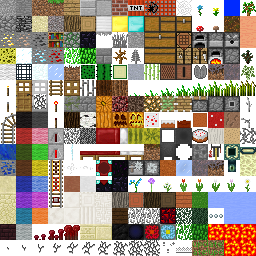
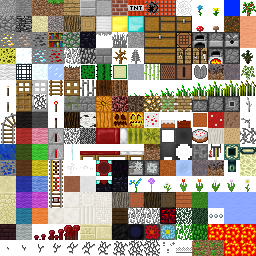
Biome colours for grass, tall grass and leaves [release]
- BiomeTint: each biome gets its PE 0.9.0 / Java 1.7 temperature and
  rainfall, looked up in the Java grass/foliage colormaps (from the
  resource pack) and box-blended over 7x7 columns. Cached per 16x16
  block with a private BiomeSource so world gen buffers aren't touched.
- Grass top, tall grass/ferns, oak and 0.9 leaves use it; spruce and
  birch keep their fixed Java colours; swamps get the murky swamp colour.
- Grass block sides: the green-baked side stays as the base (and as the
  item icon); the greyscale overlay (tile 38) is drawn tinted in the
  alpha-test layer as coplanar quads, with depth func LEQUAL like Java.
  Works with and without smooth lighting; snowy grass is skipped.
- Oak leaves in the atlas replaced with Java's greyscale ones (fancy and
  fast) so the tint isn't applied on top of baked green.
- LOD terrain picks the tint up automatically via getColor.

Claude-Session: https://claude.ai/code/session_01TSw6cBGJEbnr4uor3hK3ga

Changed region(s): [[0.25, 0.1875, 0.375, 0.25]]

diff --git a/src/world/level/BiomeTint.cpp b/src/world/level/BiomeTint.cpp
@@ -1,0 +1,135 @@
+#include "BiomeTint.h"
+#include "Level.h"
+#include "biome/BiomeSource.h"
+#include "biome/Biome.h"
+#include <map>
+#include <cstring>
+
+namespace {
+	int g_grassMap[256 * 256];
+	int g_foliageMap[256 * 256];
+	bool g_haveMaps = false;
+
+	struct ColumnBlock {
+		int grass[256];
+		int foliage[256];
+	};
+
+	BiomeSource* g_source = NULL;
+	long g_seed = 0;
+	std::map<long long, ColumnBlock*> g_cache;
+
+	std::map<long long, ColumnBlock*> g_raw;
+	void clearCache() {
+		for (std::map<long long, ColumnBlock*>::iterator it = g_cache.begin(); it != g_cache.end(); ++it)
+			delete it->second;
+		g_cache.clear();
+		for (std::map<long long, ColumnBlock*>::iterator it = g_raw.begin(); it != g_raw.end(); ++it)
+			delete it->second;
+		g_raw.clear();
+	}
+
+	// Java GrassColor/FoliageColor.get(temperature, rainfall)
+	inline int lookup(const int* map, float temp, float rain) {
+		rain *= temp;
+		int x = (int)((1.0f - temp) * 255.0f);
+		int y = (int)((1.0f - rain) * 255.0f);
+		if (x < 0) x = 0; if (x > 255) x = 255;
+		if (y < 0) y = 0; if (y > 255) y = 255;
+		return map[(y << 8) | x];
+	}
+
+	// Per-biome climate as in PE 0.9.0 / Java 1.7 (temperature, rainfall),
+	// clamped to 0..1 for the colormap lookup. Swamps use Java's fixed colour.
+	void biomeColors(Biome* b, int& grass, int& foliage) {
+		float t = 0.8f, r = 0.4f;                                   // plains
+		if (b == Biome::swampland) { grass = 0x6a7039; foliage = 0x6a7039; return; }
+		if (b == Biome::rainForest)                                 { t = 0.95f; r = 0.9f; }  // jungle
+		else if (b == Biome::forest || b == Biome::seasonalForest)  { t = 0.7f;  r = 0.8f; }
+		else if (b == Biome::taiga)                                 { t = 0.25f; r = 0.8f; }
+		else if (b == Biome::savanna || b == Biome::desert)         { t = 1.0f;  r = 0.0f; }
+		else if (b == Biome::iceDesert || b == Biome::tundra)       { t = 0.0f;  r = 0.5f; }
+		else if (b == Biome::shrubland)                             { t = 0.85f; r = 0.3f; }
+		grass   = lookup(g_grassMap, t, r);
+		foliage = lookup(g_foliageMap, t, r);
+	}
+
+
+	inline long long keyOf(int bx, int bz) { return ((long long)bx << 32) ^ (unsigned int)bz; }
+
+	const ColumnBlock* rawBlock(int bx, int bz) {
+		const long long key = keyOf(bx, bz);
+		std::map<long long, ColumnBlock*>::iterator it = g_raw.find(key);
+		if (it != g_raw.end()) return it->second;
+		ColumnBlock* b = new ColumnBlock();
+		Biome** biomes = g_source->getBiomeBlock(bx << 4, bz << 4, 16, 16);
+		for (int i = 0; i < 256; ++i) biomeColors(biomes[i], b->grass[i], b->foliage[i]);
+		g_raw[key] = b;
+		return b;
+	}
+
+	const int BLEND = 3; // 7x7 columns, like the smooth biome blend in 0.9.0
+
+	const ColumnBlock* block(int x, int z) {
+		const int bx = x >> 4, bz = z >> 4;
+		const long long key = keyOf(bx, bz);
+		std::map<long long, ColumnBlock*>::iterator it = g_cache.find(key);
+		if (it != g_cache.end()) return it->second;
+
+		// gather a 3x3 neighbourhood of raw blocks, box-blur the colours
+		const ColumnBlock* nb[3][3];
+		for (int i = 0; i < 3; ++i) for (int j = 0; j < 3; ++j) nb[i][j] = rawBlock(bx + i - 1, bz + j - 1);
+		ColumnBlock* b = new ColumnBlock();
+		for (int lx = 0; lx < 16; ++lx)
+		for (int lz = 0; lz < 16; ++lz) {
+			int gr = 0, gg = 0, gb = 0, fr = 0, fg = 0, fb = 0, n = 0;
+			for (int dx = -BLEND; dx <= BLEND; ++dx)
+			for (int dz = -BLEND; dz <= BLEND; ++dz) {
+				const int px = lx + dx + 16, pz = lz + dz + 16;      // 0..47
+				const ColumnBlock* c = nb[px >> 4][pz >> 4];
+				const int idx = ((px & 15) << 4) | (pz & 15);
+				const int g = c->grass[idx], f = c->foliage[idx];
+				gr += (g >> 16) & 255; gg += (g >> 8) & 255; gb += g & 255;
+				fr += (f >> 16) & 255; fg += (f >> 8) & 255; fb += f & 255;
+				++n;
+			}
+			const int idx = (lx << 4) | lz;
+			b->grass[idx]   = ((gr / n) << 16) | ((gg / n) << 8) | (gb / n);
+			b->foliage[idx] = ((fr / n) << 16) | ((fg / n) << 8) | (fb / n);
+		}
+		if (g_cache.size() > 8192) clearCache(); // far beyond any world we render
+		g_cache[key] = b;
+		return b;
+	}
+}
+
+void BiomeTint::setColormaps(const unsigned char* grass, const unsigned char* foliage) {
+	if (!grass || !foliage) return;
+	for (int i = 0; i < 256 * 256; ++i) {
+		g_grassMap[i]   = (grass[i * 4] << 16)   | (grass[i * 4 + 1] << 8)   | grass[i * 4 + 2];
+		g_foliageMap[i] = (foliage[i * 4] << 16) | (foliage[i * 4 + 1] << 8) | foliage[i * 4 + 2];
+	}
+	g_haveMaps = true;
+	clearCache();
+}
+
+void BiomeTint::setLevel(Level* level) {
+	if (level && g_source && g_seed == level->getSeed()) return;
+	clearCache();
+	delete g_source;
+	g_source = NULL;
+	if (level) {
+		g_seed = level->getSeed();
+		g_source = new BiomeSource(level);
+	}
+}
+
+int BiomeTint::grass(int x, int z) {
+	if (!g_haveMaps || !g_source) return DEFAULT_GRASS;
+	return block(x, z)->grass[((x & 15) << 4) | (z & 15)];
+}
+
+int BiomeTint::foliage(int x, int z) {
+	if (!g_haveMaps || !g_source) return DEFAULT_FOLIAGE;
+	return block(x, z)->foliage[((x & 15) << 4) | (z & 15)];
+}

diff --git a/src/client/renderer/TileRenderer.cpp b/src/client/renderer/TileRenderer.cpp
@@ -23,7 +23,8 @@ TileRenderer::TileRenderer( LevelSource* level /* = NULL */ )
 	xFlipTexture(false),
 	noCulling(false),
 	blsmooth(1),
-	applyAmbienceOcclusion(false)
+	applyAmbienceOcclusion(false),
+	grassOverlayPass(false)
 {
 }
 
@@ -60,8 +61,8 @@ bool TileRenderer::tesselateBlockInWorld( Tile* tt, int x, int y, int z, float r
 	float g11 = c11 * g;
 	float b11 = c11 * b;
 
-	if (tt == (Tile*)Tile::grass) {
-		r = g = b = 1.0f;
+	if (tt == (Tile*)Tile::grass && !grassOverlayPass) {
+		r = g = b = 1.0f; // sides: untinted dirt; the tinted overlay is drawn in layer 1
 	}
 
 	float r10 = c10 * r;
@@ -78,14 +79,14 @@ bool TileRenderer::tesselateBlockInWorld( Tile* tt, int x, int y, int z, float r
 
 	float centerBrightness = tt->getBrightness(level, x, y, z);
 
-	if (noCulling || tt->shouldRenderFace(level, x, y - 1, z, Facing::DOWN)) {
+	if (!grassOverlayPass && (noCulling || tt->shouldRenderFace(level, x, y - 1, z, Facing::DOWN))) {
 		float br = tt->getBrightness(level, x, y - 1, z);
 		t.color(r10 * br, g10 * br, b10 * br);
 		renderFaceDown(tt, xf, yf, zf, tt->getTexture(level, x, y, z, 0));
 		changed = true;
 	}
 
-	if (noCulling || tt->shouldRenderFace(level, x, y + 1, z, Facing::UP)) {
+	if (!grassOverlayPass && (noCulling || tt->shouldRenderFace(level, x, y + 1, z, Facing::UP))) {
 		float br = tt->getBrightness(level, x, y + 1, z);
 		if (tt->yy1 != 1 && !tt->material->isLiquid()) br = centerBrightness;
 		t.color(r11 * br, g11 * br, b11 * br);
@@ -126,6 +127,18 @@ bool TileRenderer::tesselateBlockInWorld( Tile* tt, int x, int y, int z, float r
 	}
 
 	return changed;
+}
+
+bool TileRenderer::tesselateGrassOverlay( Tile* tt, int x, int y, int z )
+{
+	// snowy grass uses the snow side texture, no green overlay
+	if (tt->getTexture(level, x, y, z, 2) != 3) return false;
+	grassOverlayPass = true;
+	fixedTexture = 38;
+	bool r = tesselateBlockInWorld(tt, x, y, z);
+	fixedTexture = -1;
+	grassOverlayPass = false;
+	return r;
 }
 
 void TileRenderer::tesselateInWorld( Tile* tile, int x, int y, int z, int fixedTexture )
@@ -760,9 +773,9 @@ bool TileRenderer::tesselateBlockInWorldWithAmbienceOcclusion( Tile* tt, int pX,
 	llTrans0yZ = Tile::translucent[level->getTile(pX, pY - 1, pZ + 1)];
 	llTrans0yz = Tile::translucent[level->getTile(pX, pY - 1, pZ - 1)];
 
-	if (tt->tex == 3) tint0 = tint2 = tint3 = tint4 = tint5 = false;
+	if (tt->tex == 3 && !grassOverlayPass) tint0 = tint2 = tint3 = tint4 = tint5 = false;
 
-	if ((noCulling) || (tt->shouldRenderFace(level, pX, pY - 1, pZ, 0))) {
+	if (!grassOverlayPass && ((noCulling) || (tt->shouldRenderFace(level, pX, pY - 1, pZ, 0)))) {
 		if (blsmooth > 0) {
 			pY--;
 
@@ -817,7 +830,7 @@ bool TileRenderer::tesselateBlockInWorldWithAmbienceOcclusion( Tile* tt, int pX,
 		renderFaceDown(tt, (float) pX, (float) pY, (float) pZ, tt->getTexture(level, pX, pY, pZ, 0));
 		i = true;
 	}
-	if ((noCulling) || (tt->shouldRenderFace(level, pX, pY + 1, pZ, 1))) {
+	if (!grassOverlayPass && ((noCulling) || (tt->shouldRenderFace(level, pX, pY + 1, pZ, 1)))) {
 		if (blsmooth > 0) {
 			pY++;
 

diff --git a/src/world/level/BiomeTint.h b/src/world/level/BiomeTint.h
@@ -1,0 +1,31 @@
+#ifndef NET_MINECRAFT_WORLD_LEVEL__BiomeTint_H__
+#define NET_MINECRAFT_WORLD_LEVEL__BiomeTint_H__
+
+class Level;
+
+/**
+ * Biome colours for grass, tall grass and leaves, like Java / PE 0.9.0.
+ *
+ * Each biome gets its PE 0.9.0 / Java 1.7 temperature and rainfall, looked
+ * up in the 256x256 colormaps (images/misc/grasscolor.png and
+ * foliagecolor.png), then blended over 7x7 columns so biome borders fade.
+ *
+ * Values are computed once per 16x16 column block and cached; the cache has
+ * its own BiomeSource so it never disturbs world generation buffers.
+ */
+class BiomeTint
+{
+public:
+	/** colormaps: 256*256 pixels, RGBA bytes. Copied. */
+	static void setColormaps(const unsigned char* grassRGBA, const unsigned char* foliageRGBA);
+	/** Called when the rendered level changes (NULL to clear). */
+	static void setLevel(Level* level);
+
+	static int grass(int x, int z);
+	static int foliage(int x, int z);
+
+	static const int DEFAULT_GRASS   = 0x7fb238;
+	static const int DEFAULT_FOLIAGE = 0x48b518;
+};
+
+#endif /*NET_MINECRAFT_WORLD_LEVEL__BiomeTint_H__*/

diff --git a/src/client/renderer/LevelRenderer.cpp b/src/client/renderer/LevelRenderer.cpp
@@ -1,3 +1,4 @@
+#include "../../world/level/BiomeTint.h"
 #include <algorithm>
 #include "LodRenderer.h"
 #include <cmath>
@@ -149,6 +150,21 @@ void LevelRenderer::setLevel( Level* level )
 
 	if (!lod) lod = new LodRenderer(textures);
 	lod->setLevel(level);
+
+	// biome colours for grass / leaves (colormaps loaded once)
+	static bool colormapsLoaded = false;
+	if (!colormapsLoaded) {
+		colormapsLoaded = true;
+		TextureData g = mc->platform()->loadTexture("misc/grasscolor.png", true);
+		TextureData f = mc->platform()->loadTexture("misc/foliagecolor.png", true);
+		if (g.data && f.data && g.w == 256 && g.h == 256 && f.w == 256 && f.h == 256)
+			BiomeTint::setColormaps(g.data, f.data);
+		else
+			LOGW("Biome colormaps missing; using default grass colour\n");
+		delete[] g.data;
+		delete[] f.data;
+	}
+	BiomeTint::setLevel(level);
 
 	if (level != NULL) {
 		level->addListener(this);

diff --git a/src/client/renderer/TileRenderer.h b/src/client/renderer/TileRenderer.h
@@ -68,6 +68,12 @@ private:
 	bool noCulling;
 
 	bool applyAmbienceOcclusion;
+	/** set while drawing the biome-tinted grass side overlay (layer 1) */
+	bool grassOverlayPass;
+public:
+	/** Grass block side overlay (texture 38), tinted with the biome grass colour. */
+	bool tesselateGrassOverlay(Tile* tt, int x, int y, int z);
+private:
 	float ll000, llx00, ll0y0, ll00z, llX00, ll0Y0, ll00Z;
 	float llxyz, llxy0, llxyZ, ll0yz, ll0yZ, llXyz, llXy0;
 	float llXyZ, llxYz, llxY0, llxYZ, ll0Yz, llXYz, llXY0;

diff --git a/src/world/level/tile/GrassTile.cpp b/src/world/level/tile/GrassTile.cpp
@@ -1,3 +1,4 @@
+#include "../BiomeTint.h"
 #include "GrassTile.h"
 #include "../material/Material.h"
 #include "../../entity/item/ItemEntity.h"
@@ -28,7 +29,7 @@ int GrassTile::getColor( LevelSource* level, int x, int y, int z ) {
 	//float temp = level.getBiomeSource().temperatures[0];
 	//float rain = level.getBiomeSource().downfalls[0];
 
-	return 0x339933;//GrassColor.get(temp, rain);
+	return BiomeTint::grass(x, z);
 }
 
 void GrassTile::tick( Level* level, int x, int y, int z, Random* random ) {

diff --git a/src/world/level/tile/Tiles09.h b/src/world/level/tile/Tiles09.h
@@ -155,7 +155,7 @@ public:
 	bool isSolidRender() { return false; }
 	int getRenderLayer() { return Tile::RENDERLAYER_ALPHATEST; }
 
-	int getColor(LevelSource* level, int x, int y, int z) { return FoliageColor::getDefaultColor(); }
+	int getColor(LevelSource* level, int x, int y, int z) { return BiomeTint::foliage(x, z); }
 	int getItemColor(int data) { return FoliageColor::getDefaultColor(); }
 
 	int getResource(int data, Random* random) { return Tile::sapling->id; }

diff --git a/src/client/renderer/Chunk.cpp b/src/client/renderer/Chunk.cpp
@@ -149,6 +149,11 @@ void Chunk::rebuild()
 						} else if (renderLayer == l) {
 							rendered |= tileRenderer.tesselateInWorld(tile, x, y, z);
 						}
+						// biome-tinted grass side overlay: cut-out, so it goes in the alpha-test layer
+						if (tile == (Tile*)Tile::grass) {
+							if (l == 0) { renderNextLayer = true; doRenderLayer[1] = true; }
+							else if (l == 1) rendered |= tileRenderer.tesselateGrassOverlay(tile, x, y, z);
+						}
 					}
 				}
 			}

diff --git a/src/world/level/tile/TallGrass.cpp b/src/world/level/tile/TallGrass.cpp
@@ -1,3 +1,4 @@
+#include "../BiomeTint.h"
 #include "TallGrass.h"
 #include "../FoliageColor.h"
 #include "../../entity/player/Player.h"
@@ -32,7 +33,7 @@ int TallGrass::getColor( LevelSource* level, int x, int y, int z ) {
 	int d = level->getData(x, y, z);
 	if (d == DEAD_SHRUB) return 0xffffff;
 
-	return 0x339933;//level->getBiome(x, z)->getGrassColor();
+	return BiomeTint::grass(x, z);
 }
 
 int TallGrass::getResource( int data, Random* random ) {

diff --git a/src/world/level/tile/LeafTile.h b/src/world/level/tile/LeafTile.h
@@ -9,6 +9,7 @@
 #include "../../item/Item.h"
 #include "../../item/ItemInstance.h"
 #include "../FoliageColor.h"
+#include "../BiomeTint.h"
 
 class Entity;
 
@@ -55,7 +56,7 @@ public:
             return FoliageColor::getBirchColor();
         }
 
-        return FoliageColor::getDefaultColor();
+        return BiomeTint::foliage(x, z);
     }
 
     void onRemove(Level* level, int x, int y, int z) {

diff --git a/src/client/renderer/GameRenderer.cpp b/src/client/renderer/GameRenderer.cpp
@@ -317,6 +317,8 @@ void GameRenderer::renderLevel(float a) {
 			glClear(GL_DEPTH_BUFFER_BIT);
 		}
 
+		// LEQUAL like Java: the grass side overlay (layer 1) is coplanar with layer 0
+		glDepthFunc(GL_LEQUAL);
 		mc->textures->loadAndBindTexture("terrain.png");
         glDisable2(GL_ALPHA_TEST);
         glDisable2(GL_BLEND);

diff --git a/RELEASE_NOTES.md b/RELEASE_NOTES.md
@@ -16,6 +16,7 @@ If installing the APK over an older build fails, uninstall the old one first; bu
 
 ### New: closer to the real 0.9.0
 - **Create a World screen** from 0.9.0, with world types **Old** (256×256 with a border), **Large** and **Flat**, and Survival / Creative.
+- **Biome colours**: grass, tall grass, ferns and leaves are tinted per biome with the Java colormaps, blended smoothly across biome borders. Lush green forests, yellow-olive savannas and deserts, blue-green snowy plains, murky swamps. Grass block sides use the tinted overlay, so the sides match the top.
 - **3D clouds**: thick 12×4×12-block volumetric clouds like 0.9.0. Turn off Fancy Graphics for the old flat clouds.
 - **Touch HUD**: pause and chat buttons in the top right, using the 0.9.0 icons. Chat opens the keyboard with the text box at the top of the screen, and works for `/commands`.
 - Fancy graphics and smooth lighting are on by default, as in 0.9.0.
